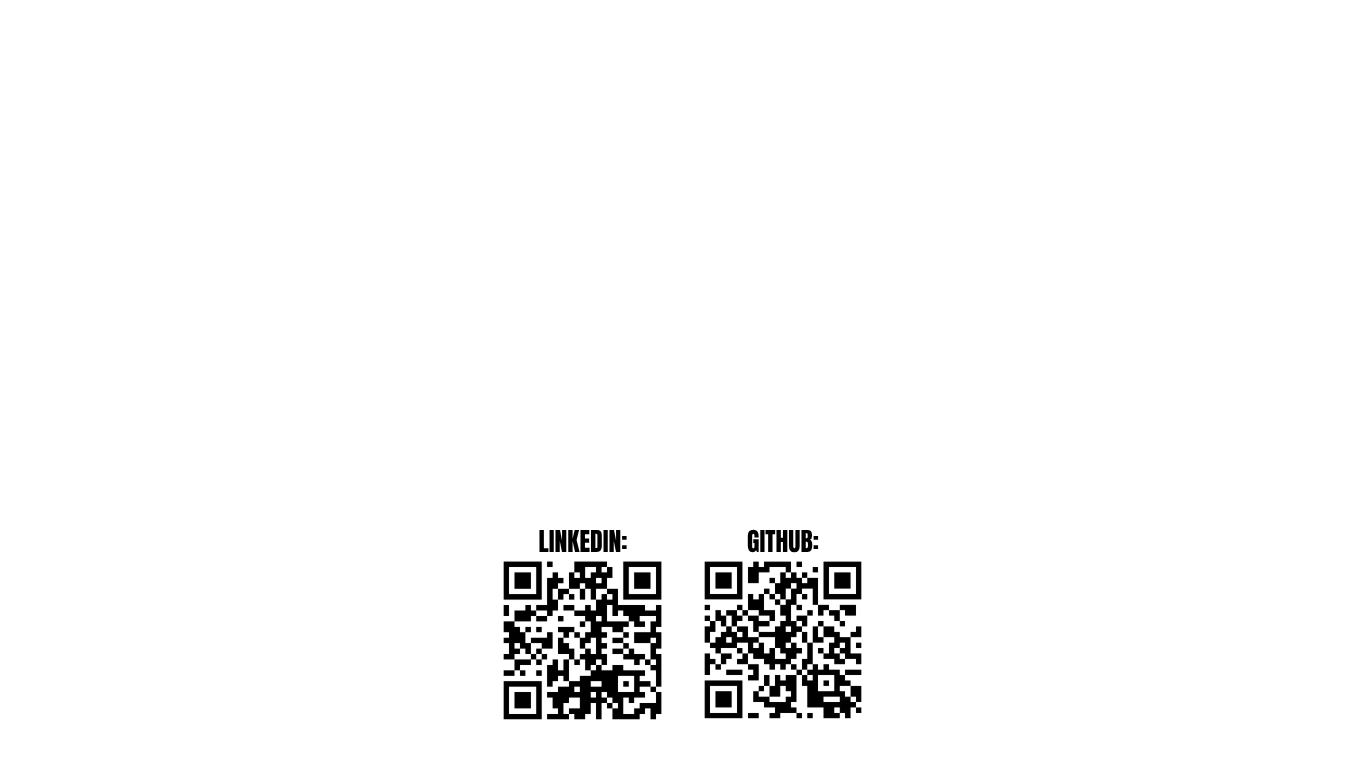
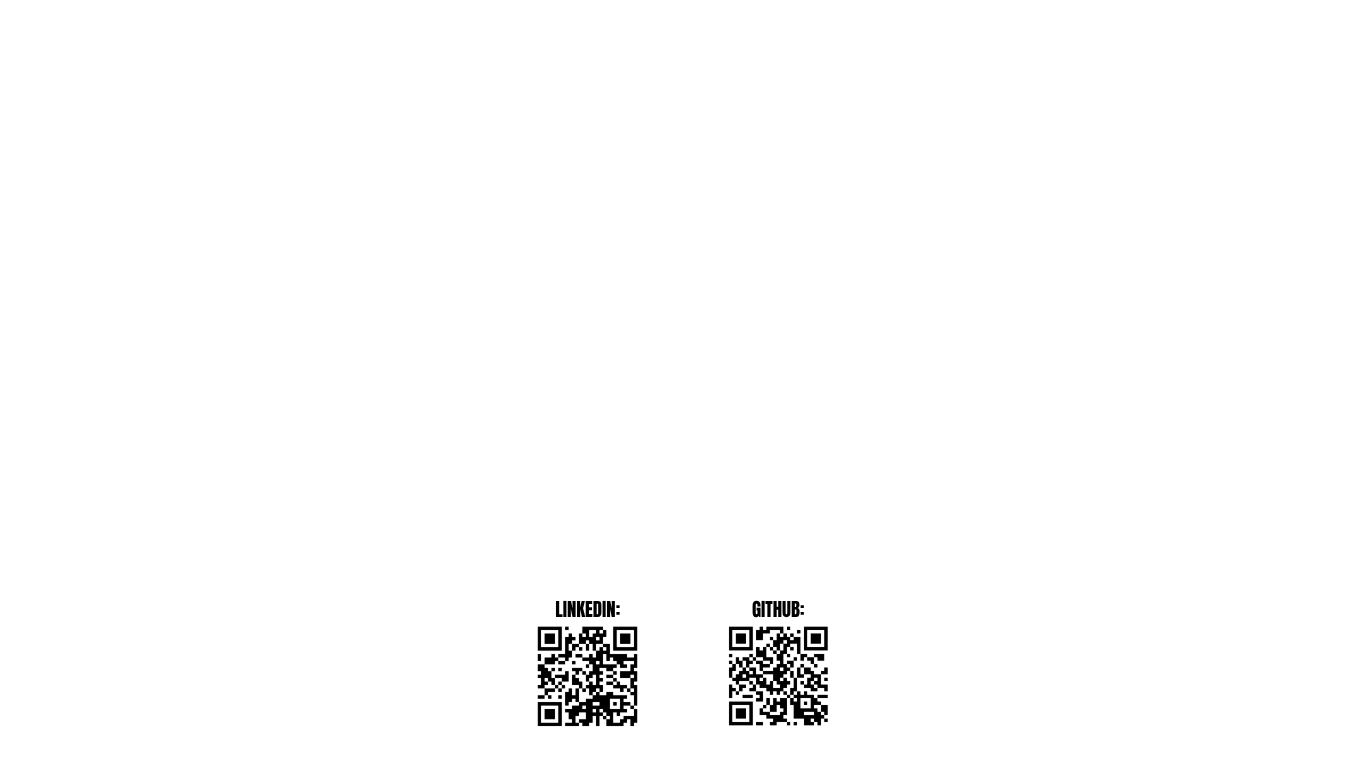
Leitor de codigos agora

Changed region(s): [[0.369, 0.6875, 0.6457, 0.9688]]

diff --git a/PYTHON/Progresso/Projetos/ProjetosFeitos/QRCODE_WEB/Upload/templates/Upload/index.html b/PYTHON/Progresso/Projetos/ProjetosFeitos/QRCODE_WEB/Upload/templates/Upload/index.html
@@ -1,32 +1,36 @@
 <!DOCTYPE html>
 {% load static %}
 <html lang="pt-br">
+
 <head>
     <meta charset="UTF-8">
     <link rel="preconnect" href="https://fonts.googleapis.com">
     <link rel="preconnect" href="https://fonts.gstatic.com" crossorigin>
     <link href="https://fonts.googleapis.com/css2?family=Special+Gothic+Expanded+One&display=swap" rel="stylesheet">
-    <link href="https://fonts.googleapis.com/css2?family=Outfit:wght@100..900&family=Special+Gothic+Expanded+One&display=swap" rel="stylesheet">
+    <link
+        href="https://fonts.googleapis.com/css2?family=Outfit:wght@100..900&family=Special+Gothic+Expanded+One&display=swap"
+        rel="stylesheet">
     <meta name="viewport" content="width=device-width, initial-scale=1.0">
     <link rel="stylesheet" href="{% static 'Upload/style.css' %}">
     <title>QRCODES</title>
 </head>
+
 <body>
     <div class="tela"></div>
 
     <div class="meio">
         <div class="borda">
-
-            <h2>QRCODE MAKER!</h2>
+            <div class="titulo">
+                <h2>QRCODE MAKER!</h2>
+            </div>
             <div class="arqs">
-
                 <form method="post" enctype="multipart/form-data">
                     {% csrf_token %}
-                    <label >NOME DO SEU QRCODE</label><br>
+                    <label>NOME DO SEU QRCODE</label><br>
                     <input type="text" name="nome" required><br><br>
-                    <label >CONTEÚDO DO QRCODE</label><br>
+                    <label>CONTEÚDO DO QRCODE</label><br>
                     <input type="text" name="link" required><br><br>
-                     {% if not out|lower|slice:"-4:" == ".png" %}
+                    {% if not out|lower|slice:"-4:" == ".png" %}
                     <button type="submit">GERAR QRCODE</button>
                     {% endif%}
                 </form>
@@ -38,10 +42,42 @@
             </div>
         </div>
     </div>
-    <div class="QR">
-        <h1>Seu codigo QR:<p><a href="{{ out }}" download>BAIXAR CODIGO QR!</a></p></h1><img src="{{ out }}" alt="Fundo">
+    <div class="localQR">
+        <div class="Background">
+            <div class="tituloQR">
+                <h1>Seu codigo QR:<p>
+            </div>
+            <div class="QRimg">
+                <img src="{{ out }}" alt="Fundo" width="85%">
+            </div>
+            <div class="QRlinks">
+                <a href="{{ out }}" download>BAIXAR CODIGO QR!</a>
+            </div>
+            </p>
+            </h1>
+        </div>
     </div>
-    
     {% endif %}
+    <div class="localLER">
+        <div class="Background">
+            <div class="tamanho">
+                <form method="post" enctype="multipart/form-data">
+                    {% csrf_token %}
+                    <div class="titulo">
+                        <label>LER QRCODE</label><br>
+                    </div>
+                    <input type="file" name="arq" required><br><br>
+                    <button type="submit" name='ler'>LER QRCODE</button>
+                    <div class="info">
+                    {% if qr %}
+                        <p>{{ qr }}</p>
+                        {% endif %}
+                    </div>
+                </form>
+            </div>
+        </div>
+    </div>
+
 </body>
+
 </html>

diff --git a/PYTHON/Progresso/Projetos/ProjetosFeitos/QRCODE_WEB/Upload/static/Upload/style.css b/PYTHON/Progresso/Projetos/ProjetosFeitos/QRCODE_WEB/Upload/static/Upload/style.css
@@ -1,13 +1,13 @@
-body{
+body {
     background-image: url("/static/Upload/FUNDONOVO.png");
     background-position-y: -100px;
     position: relative;
-    background-repeat: no-repeat;
     background-size: cover;
     font-family: Arial;
+    z-index: 0;
 }
 
-.tela{
+.tela {
     background-color: gray;
     background-size: cover;
     top: 0;
@@ -19,12 +19,7 @@ body{
     height: 100vw;
 }
 
-h2{
-    font-family: "Special Gothic Expanded One", sans-serif;
-    font-style: normal;
-}
-
-.meio{
+.meio {
     position: relative;
     z-index: 2;
     padding: 80px;
@@ -34,7 +29,13 @@ h2{
     margin-right: auto;
     width: auto;
 }
-.borda{   
+.titulo {
+    font-family: "Special Gothic Expanded One", sans-serif;
+    font-style: normal;
+}
+
+
+.borda {
     background-color: white;
     padding: 30px;
     margin: auto;
@@ -46,44 +47,72 @@ h2{
     z-index: 3;
 }
 
-.arqs{
+.arqs {
     font-family: "Outfit", sans-serif;
     font-style: normal;
     font-size: 125%;
     z-index: 4;
 }
 
-.QR{
-    background-color: white;
-    border-radius: 40px;
+.localQR {
     position: absolute;
-    align-items: center;
-    margin-top: -35%;
-    margin-left: 2%;
-    width: 32%;
-    height: 100%;
+    padding: 50px;
+    top: -10px;
+    left: 30px;
+}
+
+.Background {
+    position: relative;
+    background-color: white;
+    text-align: center;
+    border-radius: 40px;
     z-index: 5;
 }
 
-h1{
-    margin-top: 5%;
+.Background1 {
+    position: relative;
+    background-color: white;
+    text-align: center;
+    border-radius: 40px;
+    z-index: 5;
+}
+
+.tituloQR {
     font-family: "Special Gothic Expanded One", sans-serif;
     font-style: normal;
-    font-size: x-large;
-    text-align: center;
-    position: relative;
+    font-size: small;
+    padding: 2%;
+    position: relative;  
     z-index: 7;
 }
 
-p{
-    position: relative;
-    margin-top: 90%;
+.QRlinks {
+    font-size: small;
+    margin-top: -5%;
+    padding: 7%;
 }
 
-img{
-    position: absolute;
-    margin-top: -110%;
-    border-radius: 40px;
-    width: 100%;
+.QRimg {
+    position: relative;
     z-index: 6;
+}
+
+.localLER {
+    position: fixed;
+    z-index: 9;
+    padding: 50px;
+    top: -10px;
+    left: 840px;
+}
+
+.info{
+    position: relative;
+    font-size: medium;
+    justify-items: auto;
+    text-align: left;
+    font-weight: bold;
+}
+
+.tamanho {
+    padding: 20px;
 }

diff --git a/PYTHON/Progresso/Projetos/ProjetosFeitos/QRCODE_WEB/Upload/services.py b/PYTHON/Progresso/Projetos/ProjetosFeitos/QRCODE_WEB/Upload/services.py
@@ -1,6 +1,8 @@
 from django.core.files.storage import default_storage
 from django.conf import settings
 import qrcode
+from pyzbar import pyzbar
+from PIL import Image
 import os
 class QR:
     
@@ -14,6 +16,28 @@ class QR:
             
     def qr(self, link):
         
-        qr = qrcode.make(link)
-        qr.save((os.path.join(settings.MEDIA_ROOT, f'qrcodes/{self.nome}')))
+        qr = qrcode.make(link, box_size=5, border=0)
+        qr.save((os.path.join(settings.MEDIA_ROOT, f'qrcodes\{self.nome}')))
         return f'qrcodes/{self.nome}'
+    
+class Pyz:
+    
+    def __init__(self, arq):
+        self.arq = arq
+        
+    def leitura(self):
+        try:
+            image = Image.open(os.path.join(settings.MEDIA_ROOT, self.arq))
+        except:
+            return 'Arquivo incompativel'
+        decodeqr = pyzbar.decode(image)
+        if decodeqr:
+            lista = []
+            for i in decodeqr:
+                return f'Dados do QRCODE: \n{i.data.decode('utf-8')}'
+        else:
+            return 'erro'
+    
+    def limpa(self):
+        if os.path.exists(os.path.join(settings.MEDIA_ROOT, self.arq)):
+            os.remove(os.path.join(settings.MEDIA_ROOT, self.arq))

diff --git a/PYTHON/Progresso/Projetos/ProjetosFeitos/QRCODE_WEB/Upload/views.py b/PYTHON/Progresso/Projetos/ProjetosFeitos/QRCODE_WEB/Upload/views.py
@@ -1,16 +1,31 @@
 from django.shortcuts import render
 from .services import *
 from django.conf import settings
+
 # Create your views here.
 
+
 def qrcode(request):
+    decode = None
     img = None
-    if request.method == 'POST':
-        if 'sai' in request.POST:
+    if request.method == "POST":
+        if "sai" in request.POST:
             img = None
-        else:
-            nome = request.POST.get('nome')
-            link = request.POST.get('link')
+        if "ler" in request.POST:
+            qr = request.FILES["arq"]
+            arquivo = default_storage.save("leitor/decodar.png", qr)
+            dados = Pyz(arquivo)
+            decode = dados.leitura()
+            dados.limpa()
+
+        elif "nome" in request.POST and "link" in request.POST:
+            nome = request.POST.get("nome")
+            link = request.POST.get("link")
             codeqr = QR(nome)
             img = codeqr.qr(link)
-    return render(request, 'Upload/index.html', {'out': f'{settings.MEDIA_URL}{img}' if img else ''})
+
+    return render(
+        request,
+        "Upload/index.html",
+        {"out": f"{settings.MEDIA_URL}{img}" if img else "", "qr": decode},
+    )
